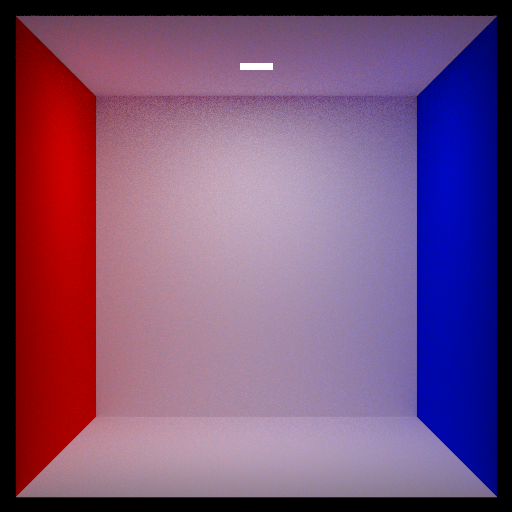
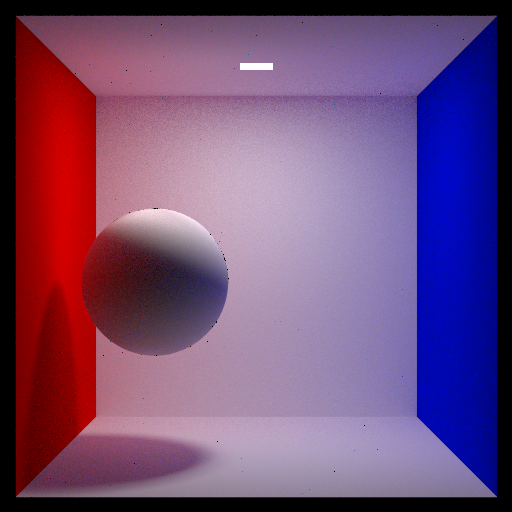
max spp renderer

Changed region(s): [[0.0312, 0.4062, 0.4688, 0.9688]]

diff --git a/render/RenderTile.h b/render/RenderTile.h
@@ -48,7 +48,7 @@ namespace TileRenderers {
 	}
 
 	//Will render until max spp reached, but stops rendering pixels that are suitably converged.
-	static void ConvergeAndStop(const RenderTile *_tile) {
+	static void MaxSpp(const RenderTile *_tile) {
 		const unsigned w = _tile->film->filmData.GetWidth();
 		const unsigned h = _tile->film->filmData.GetHeight();
 		const Real xi = (Real)1 / w;
@@ -56,7 +56,7 @@ namespace TileRenderers {
 
 		const unsigned s = _tile->w * _tile->h;
 		std::vector<bool> completionBuffer(s, false);
-		unsigned sampleIndex = 0, jump = 31, completions = 0;
+		unsigned sampleIndex = 0, jump = 64, completions = 0;
 		while (sampleIndex < _tile->spp) {
 			if (completions < s) {
 				for (unsigned y = _tile->y; y < _tile->y + _tile->h; ++y) {
@@ -64,7 +64,7 @@ namespace TileRenderers {
 						if (!completionBuffer[(y - _tile->y) * _tile->w + x - _tile->x]) {
 							if (_tile->integrator->sampler->sampleShifter)
 								_tile->integrator->sampler->sampleShifter->SetPixelIndex(w, h, x, y);
-							const Real pre = _tile->film->filmData.GetPixelCoord(x, y).spec.y_fast();
+							const Real pre = _tile->film->filmData.GetPixelCoord(x, y).spec.y();
 							_tile->integrator->sampler->SetSample(sampleIndex);
 							for (unsigned i = 0; i < jump; ++i) {
 								const Real u = xi * ((Real)x + _tile->integrator->sampler->Get1D() - .5);
@@ -74,8 +74,8 @@ namespace TileRenderers {
 								_tile->film->AddSample(sample, x, y);
 								_tile->integrator->sampler->NextSample();
 							}
-							const Real dif = _tile->film->filmData.GetPixelCoord(x, y).spec.y_fast() - pre;
-							if (dif * dif < .004) {
+							const Real dif = (_tile->film->filmData.GetPixelCoord(x, y).spec.y() - pre) / (Real)sampleIndex;
+							if (dif * dif < .00005) {
 								completionBuffer[(y - _tile->y) * _tile->w + x - _tile->x] = true;
 								completions++;
 							}
@@ -85,6 +85,6 @@ namespace TileRenderers {
 			}
 			sampleIndex += jump;
 		}
-		std::cout << std::endl << "Completions: " << completions;
+		if(completions < s) std::cout << std::endl << "Undersampled: " << s - completions << " pixels.";
 	}
 }

diff --git a/Lambda/main.cpp b/Lambda/main.cpp
@@ -1,8 +1,4 @@
-#include <iostream>
-#include <omp.h>
-#include <thread>
 #include <assets/AssetImporter.h>
-#include<cmath>
 #include <shading/OrenNayar.h>
 #include <shading/Lambertian.h>
 #include <shading/Specular.h>
@@ -33,14 +29,14 @@ int main() {
 	Texture albedo(1,1,Colour(1,1,1));
 	albedo.LoadImageFile("../content/box_tex.png");
 	albedo.interpolationMode = InterpolationMode::INTERP_NEAREST;
-	//OrenNayarBRDF mat(&albedo, 3);
+	//OrenNayarBRDF mat(&albedo, 1);
 	LambertianBRDF mat(&albedo);
 	//mat.SetSigma(1);
 	mesh.bxdf = &mat;
 	scene.AddObject(mesh);
 
 	AssetImporter ai3;
-	ai3.Import("../content/ocean.obj");
+	ai3.Import("../content/spheres.obj");
 	TriangleMesh lucy;
 	lucy.LoadFromImport(scene.device, ai3);
 	lucy.smoothNormals = true;
@@ -50,10 +46,10 @@ int main() {
 	FresnelDielectric fres(1.8);
 	//MicrofacetBRDF mat2(&white, &dist, &fres);
 	//mat2.etaT = 1.8;
-	FresnelBSDF mat2(&white, 1.333);
-	//OrenNayarBRDF mat2(&white, .8);
+	//FresnelBSDF mat2(&white, 1.333);
+	OrenNayarBRDF mat2(&white, .8);
 	lucy.bxdf = &mat2;
-	//scene.AddObject(lucy);
+	scene.AddObject(lucy);
 
 	AssetImporter ai2;
 	ai2.Import("../content/box_light.obj");
@@ -110,11 +106,11 @@ int main() {
 	renderDirective.film = &film;
 	renderDirective.sampler = &sampler;
 	renderDirective.sampleShifter = &sampleShifter;
-	renderDirective.spp = 800;
+	renderDirective.spp = 20000;
 	renderDirective.tileSizeX = 64;
 	renderDirective.tileSizeY = 64;
 
-	ThreadedMosaicRenderer rdr(renderDirective, TileRenderers::ConvergeAndStop, 4);
+	ThreadedMosaicRenderer rdr(renderDirective, TileRenderers::MaxSpp, 4);
 	rdr.Render();
 
 	Texture tex(film.filmData.GetWidth(), film.filmData.GetHeight(), Colour(0, 0, 0));

diff --git a/core/Instance.h b/core/Instance.h
@@ -1,0 +1,7 @@
+#pragma once
+#include"Object.h"
+
+class Instance : public Object {
+	public:
+		
+};
